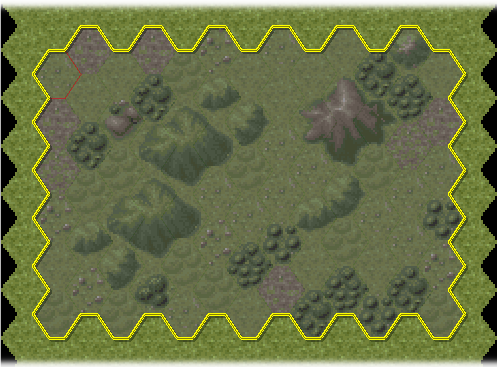
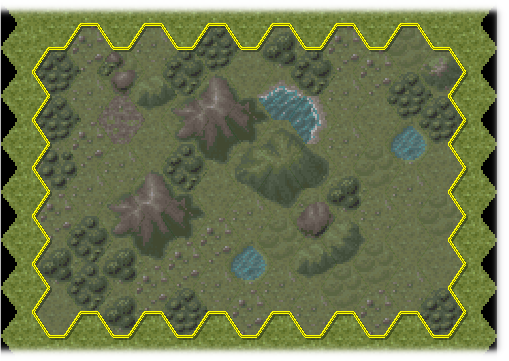
update readme

diff --git a/README.md b/README.md
@@ -51,20 +51,24 @@ A fork of the excellent HL-Editor. The goal is to
 
 ## Selection fills
 
-You can now make a selection on the map and fill it with a themed pattern :
+You can now make a selection on the map and fill it with a 'themed' pattern :
 
 <img src=".readme-assets/selection_plains.png" height="200px;"> <img src=".readme-assets/selection_light_forest.png" height="200px;"> <img src=".readme-assets/selection_dense_forest.png" height="200px;">
 
-<img src=".readme-assets/selection_residentals.png" height="200px;"> <img src=".readme-assets/selection_battlefield.png" height="200px;"> <img src=".readme-assets/selection_wasteland.png" height="200px;">
+<img src=".readme-assets/selection_residentals.png" height="200px;"> <img src=".readme-assets/selection_battlefield.png" height="200px;"> <img src=".readme-assets/selection_wasteland.png" height="200px;"> 
 
-<img src=".readme-assets/selection_lake.png" height="200px;"> <img src=".readme-assets/selection_island.png" height="200px;">
+<img src=".readme-assets/selection_wetland.png" height="200px;"> <img src=".readme-assets/selection_lake.png" height="200px;"> <img src=".readme-assets/selection_island.png" height="200px;">
 <br>
 
-* Predefined fills: Plains, Light Forest, Dense Forest, Residentals, Battlefield, Wasteland, Lake and Island. 
+* Predefined fills: Plains, Light Forest, Dense Forest, Residentals, Battlefield, Wasteland, Wetland, Lake and Island. 
 
 * The above samples are just illustrative, patterns are not repeated. The Editor uses a random engine and a 'race' between different tile types to produce unique 'organic looking'  fills each time. 
 
-* All kind of landscape types can be marked as 'protected', so the fill not overwrite those types. By default, roads, railroads and buildings are protected. 
+* Various kind of landscape types can be marked as 'protected', so the fill not overwrite those types. By default, buildings, roads, water/coastline and rivers are protected. 
+
+* Instead of a specific pattern you can fill the selected area with the selected tile. An easy way to clear a larger area without removing roads, buildings and so on.
+
+* By default units are preserved, but you can uncheck this as well.
 
 *Experimentally* You can also dragdrop selections, from one part of the map to another - including buildings and units.
 
@@ -128,9 +132,13 @@ You can now replace multiple tiles until the dialog is closed. <br>
 
 ## Coordinates
 
-Similar to the '*Show grid*' function, hexagon coordinates can now be displayed on the map.  For each hexagon, the <kbd>x</kbd>, <kbd>y</kbd> coordinates are shown along with the internal <kbd>field_pos</kbd>. Coords are automatically turned off if the zoom / Scale_factor is 2.5 or below (too little space).
+Similar to the '*Show grid*' function, hexagon coordinates can now be displayed on the map.  For each hexagon, the <kbd>x</kbd>, <kbd>y</kbd> coordinates are shown along with the internal <kbd>field_pos</kbd>. 
 
 <img src=".readme-assets/coords.png" height="300px;">
+
+* Does not show any coordinates if Zoom is 1 or below
+
+* Does not show <kbd>field_pos</kbd> if Zoom is below 3.5
 
 
 ## Buildable units
